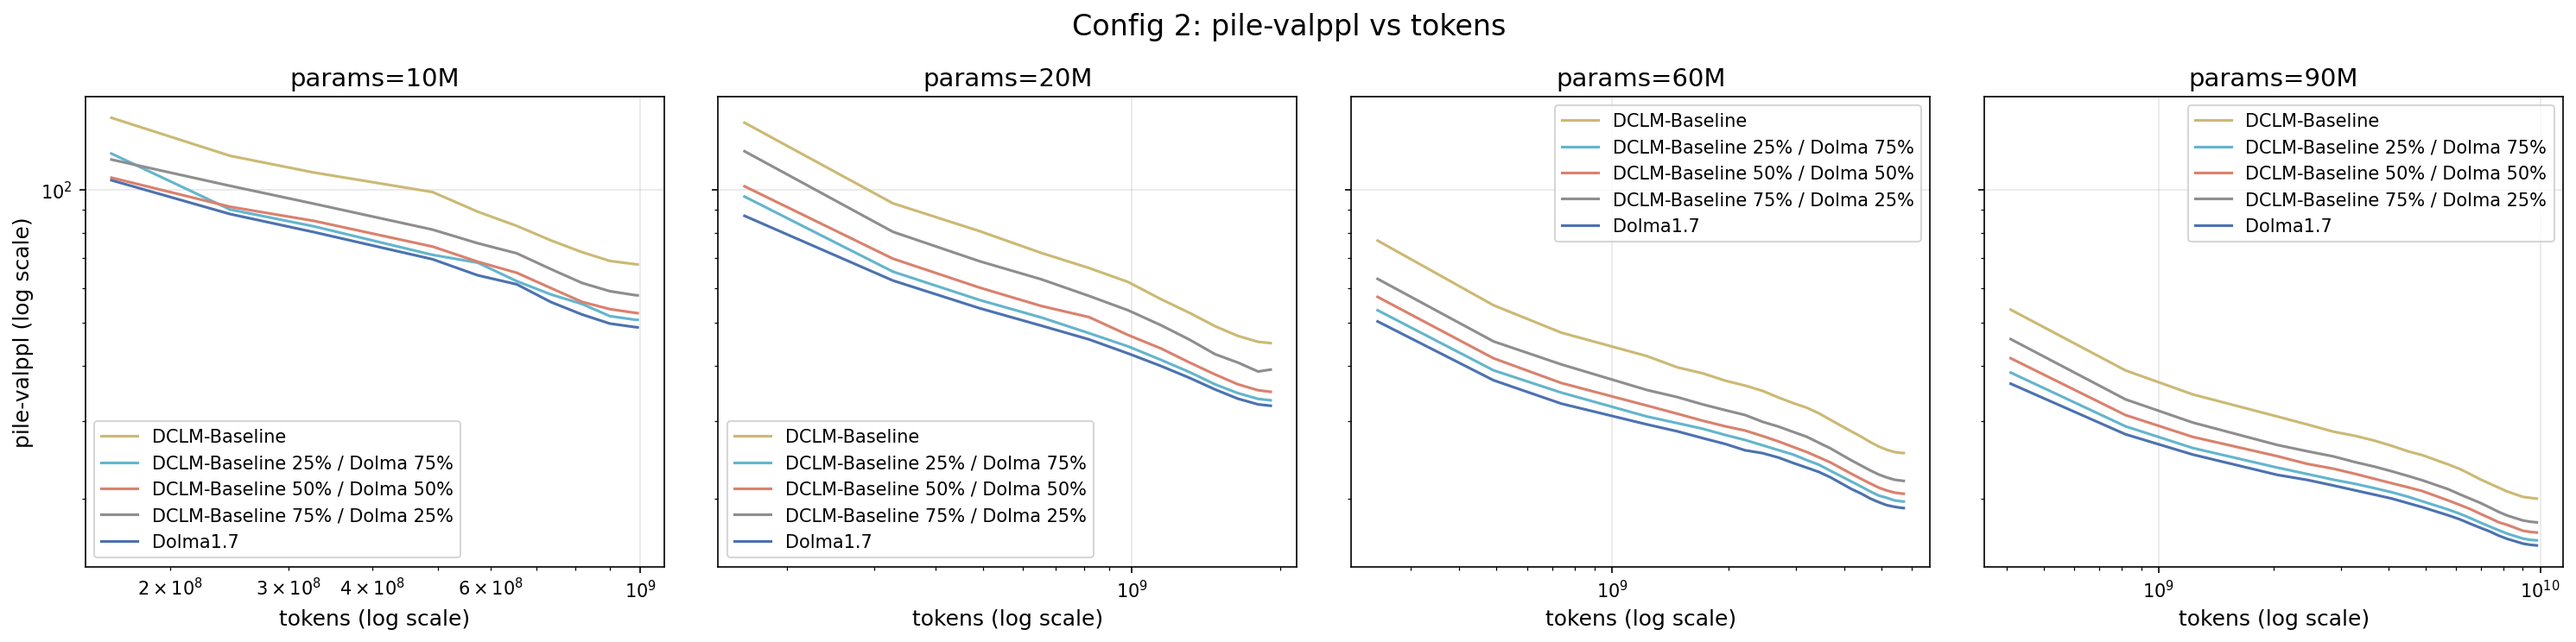
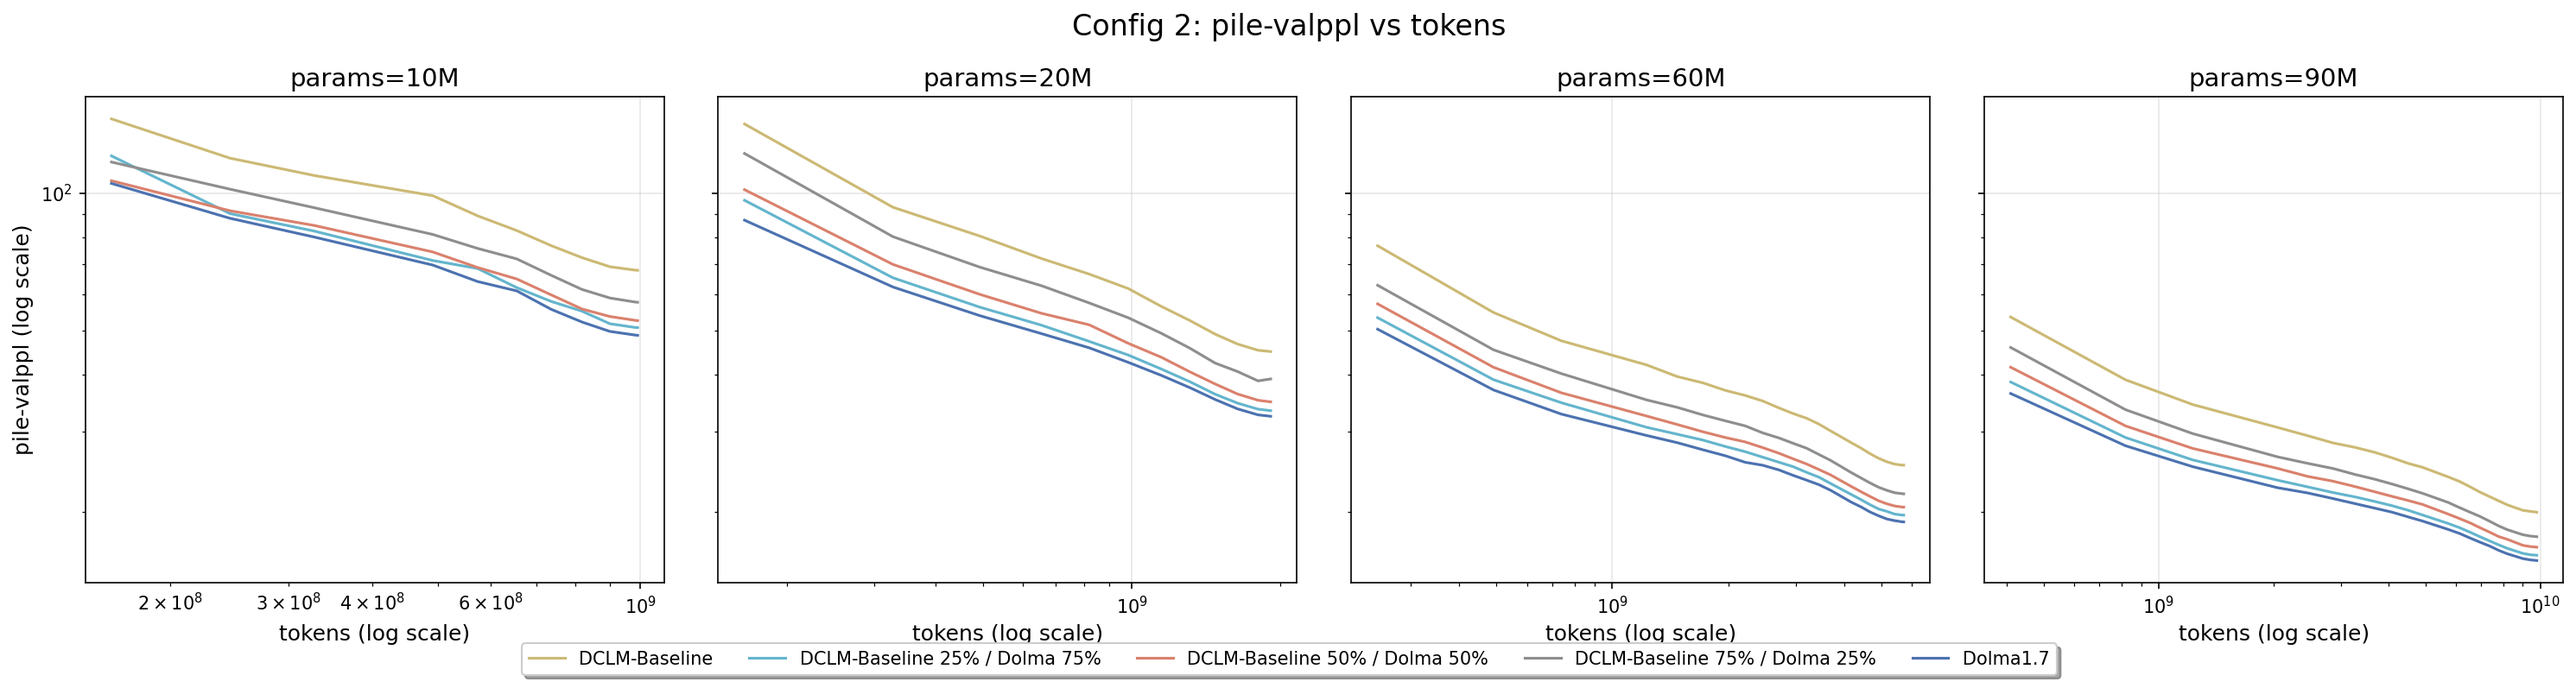
add the ability to select num cols in legend

diff --git a/scripts/test_plotting.py b/scripts/test_plotting.py
@@ -5,7 +5,6 @@ Creates various configurations of scaling curve plots to validate the implementa
 """
 
 import sys
-import os
 from pathlib import Path
 import matplotlib.pyplot as plt
 
@@ -15,21 +14,20 @@ sys.path.insert(0, str(repo_root / "src"))
 
 from datadec import DataDecide
 from datadec.plotting import ScalingPlotBuilder, ModelComparisonBuilder
-import datadec.constants as consts
 
 
 def fix_sharey_labels(builder, fm):
     """
     Fix y-axis labels for shared y-axis plots by removing redundant labels.
-    
+
     Args:
         builder: The plot builder instance (to access config)
         fm: The FigureManager instance (to access axes)
     """
-    if builder.config.get('sharey'):
-        ncols = builder.config['ncols']
+    if builder.config.get("sharey"):
+        ncols = builder.config["ncols"]
         nrows = 1  # Assuming single row layouts for now
-        
+
         for row in range(nrows):
             for col in range(1, ncols):  # Skip leftmost (col=0)
                 ax = fm.get_axes(row=row, col=col)
@@ -37,108 +35,135 @@ def fix_sharey_labels(builder, fm):
                     ax.set_ylabel("")
 
 
-def add_unified_legend_below(builder, fm, adjust_layout=True):
+def add_unified_legend_below(builder, fm, adjust_layout=True, legend_ncol=None):
     """
     Create a unified legend below all subplots, removing individual subplot legends.
-    
+
     Args:
         builder: The plot builder instance (to access config)
         fm: The FigureManager instance (to access figure and axes)
         adjust_layout: Whether to adjust subplot layout to make room for legend
+        legend_ncol: Number of columns in legend. If None, uses len(all_labels) for single row
     """
-    ncols = builder.config.get('ncols', 1)
+    ncols = builder.config.get("ncols", 1)
     nrows = 1  # Assuming single row layouts for now
-    
+
     # Collect all unique legend handles and labels from subplots
     all_handles = []
     all_labels = []
     seen_labels = set()  # Track unique labels to avoid duplicates
-    
+
     for row in range(nrows):
         for col in range(ncols):
             ax = fm.get_axes(row=row, col=col)
             if ax and ax.get_visible():
                 # Get legend handles and labels from this subplot
                 handles, labels = ax.get_legend_handles_labels()
-                
+
                 # Add unique labels only (avoid duplicates across subplots)
                 for handle, label in zip(handles, labels):
                     if label not in seen_labels:
                         all_handles.append(handle)
                         all_labels.append(label)
                         seen_labels.add(label)
-                
+
                 # Remove individual subplot legend
                 legend = ax.get_legend()
                 if legend:
                     legend.remove()
-    
+
     # Create unified legend below subplots if we have any labels
     if all_handles and all_labels:
-        # Optionally adjust layout to make room for legend
+        # Determine number of columns for legend
+        if legend_ncol is None:
+            # Default: single row (all labels in one row)
+            legend_cols = len(all_labels)
+        else:
+            # Use specified number of columns
+            legend_cols = min(legend_ncol, len(all_labels))
+
+        # Adjust bottom margin based on number of legend rows needed
         if adjust_layout:
-            # Shrink subplots slightly to make room for legend below
-            plt.subplots_adjust(bottom=0.15)
-        
+            legend_rows = (
+                len(all_labels) + legend_cols - 1
+            ) // legend_cols  # Ceiling division
+            bottom_margin = (
+                0.1 + (legend_rows - 1) * 0.05
+            )  # More space for multi-row legends
+            plt.subplots_adjust(bottom=bottom_margin)
+
         # Create figure-level legend below all subplots
         fm.fig.legend(
-            all_handles, 
+            all_handles,
             all_labels,
-            loc='upper center',           # Legend anchor point
+            loc="upper center",  # Legend anchor point
             bbox_to_anchor=(0.5, 0.02),  # Position below subplots
-            ncol=len(all_labels),         # Horizontal layout
-            frameon=True,                 # Show legend frame
-            fancybox=True,               # Rounded corners
-            shadow=True                  # Drop shadow
+            ncol=legend_cols,  # Configurable columns
+            frameon=True,  # Show legend frame
+            fancybox=True,  # Rounded corners
+            shadow=True,  # Drop shadow
         )
+
 
 def main():
     # Load data
     print("Loading DataDecide data...")
     data_dir = repo_root / "outputs" / "example_data"
-    
+
     if not data_dir.exists():
-        print(f"Data directory {data_dir} does not exist. Please run data pipeline first.")
+        print(
+            f"Data directory {data_dir} does not exist. Please run data pipeline first."
+        )
         return
-        
+
     dd = DataDecide(data_dir=str(data_dir), verbose=True)
-    
+
     # Use mean_eval for averaged data across seeds
     df = dd.load_dataframe("mean_eval")
     print(f"Loaded mean_eval dataframe with shape: {df.shape}")
     print(f"Available columns: {list(df.columns)[:20]}...")  # Truncate long list
     print(f"Unique params: {sorted(df['params'].unique())}")
     print(f"Unique data: {sorted(df['data'].unique())[:10]}...")  # Truncate long list
-    
+
     # Drop rows with NaN values in key plotting columns
-    key_columns = ['tokens', 'pile-valppl', 'mmlu_average_correct_prob', 'params', 'data']
+    key_columns = [
+        "tokens",
+        "pile-valppl",
+        "mmlu_average_correct_prob",
+        "params",
+        "data",
+    ]
     available_key_columns = [col for col in key_columns if col in df.columns]
     print(f"Filtering NaN values in columns: {available_key_columns}")
     initial_shape = df.shape
     df = df.dropna(subset=available_key_columns)
-    print(f"After NaN filtering: {df.shape} (removed {initial_shape[0] - df.shape[0]} rows)")
-    
+    print(
+        f"After NaN filtering: {df.shape} (removed {initial_shape[0] - df.shape[0]} rows)"
+    )
+
     # Create output directory for plots
     plots_dir = repo_root / "plots" / "test_plotting"
     plots_dir.mkdir(parents=True, exist_ok=True)
     print(f"Saving plots to: {plots_dir}")
-    
+
     # Use the requested params and data values
     test_params = ["10M", "20M", "60M", "90M"]
     test_data = [
         "Dolma1.7",
         "DCLM-Baseline 25% / Dolma 75%",
         "DCLM-Baseline 50% / Dolma 50%",
-        "DCLM-Baseline 75% / Dolma 25%", 
-        "DCLM-Baseline"
+        "DCLM-Baseline 75% / Dolma 25%",
+        "DCLM-Baseline",
     ]
-    
+
     # Configuration 1: params as lines, data as subplots (your main use case)
     print("\n=== Configuration 1: params as lines, data as subplots ===")
     try:
         # Using the new builder pattern
         builder1 = ScalingPlotBuilder(df)
-        builder1.clean_data(key_columns=available_key_columns)  # Data already cleaned above, but showing pattern
+        builder1.clean_data(
+            key_columns=available_key_columns
+        )  # Data already cleaned above, but showing pattern
         builder1.with_params(test_params)
         builder1.with_data(test_data)
         builder1.configure(
@@ -149,22 +174,27 @@ def main():
             title_prefix="Config 1",
             ncols=5,  # Single row with 5 columns
             figsize=(25, 5),  # Wider figure for single row
-            sharey=True  # Share y-axis across subplots
+            sharey=True,  # Share y-axis across subplots
         )
         fig1, fm1 = builder1.build()
         fix_sharey_labels(builder1, fm1)
         add_unified_legend_below(builder1, fm1)
-        
-        fig1.savefig(plots_dir / "config1_params_lines_data_subplots.png", dpi=150, bbox_inches="tight")
+
+        fig1.savefig(
+            plots_dir / "config1_params_lines_data_subplots.png",
+            dpi=150,
+            bbox_inches="tight",
+        )
         print("✓ Saved config1_params_lines_data_subplots.png")
     except Exception as e:
         print(f"✗ Error in config 1: {e}")
-    
+
     # Configuration 2: data as lines, params as subplots (swapped)
     print("\n=== Configuration 2: data as lines, params as subplots ===")
     try:
         # More concise builder usage
-        builder2 = (ScalingPlotBuilder(df)
+        builder2 = (
+            ScalingPlotBuilder(df)
             .with_params(test_params)
             .with_data(test_data)
             .configure(
@@ -175,39 +205,48 @@ def main():
                 title_prefix="Config 2",
                 ncols=4,  # Single row with 4 columns (for 4 params)
                 figsize=(20, 5),  # Wider figure for single row
-                sharey=True  # Share y-axis across subplots
-            ))
+                sharey=True,  # Share y-axis across subplots
+            )
+        )
         fig2, fm2 = builder2.build()
         fix_sharey_labels(builder2, fm2)
         add_unified_legend_below(builder2, fm2)
-        
-        fig2.savefig(plots_dir / "config2_data_lines_params_subplots.png", dpi=150, bbox_inches="tight")
+
+        fig2.savefig(
+            plots_dir / "config2_data_lines_params_subplots.png",
+            dpi=150,
+            bbox_inches="tight",
+        )
         print("✓ Saved config2_data_lines_params_subplots.png")
     except Exception as e:
         print(f"✗ Error in config 2: {e}")
-    
+
     # Configuration 3: Different metric (MMLU instead of perplexity)
     print("\n=== Configuration 3: MMLU metric ===")
     try:
         # Another concise example showing different metric
-        builder3 = (ScalingPlotBuilder(df)
+        builder3 = (
+            ScalingPlotBuilder(df)
             .with_params(test_params)
             .with_data(test_data)
             .configure(
                 y_col="mmlu_average_correct_prob",
                 title_prefix="Config 3",
                 ncols=5,  # Single row with 5 columns
-                sharey=True  # Share y-axis for this metric comparison
-            ))
+                sharey=True,  # Share y-axis for this metric comparison
+            )
+        )
         fig3, fm3 = builder3.build()
         fix_sharey_labels(builder3, fm3)
         add_unified_legend_below(builder3, fm3)
-        
-        fig3.savefig(plots_dir / "config3_mmlu_metric.png", dpi=150, bbox_inches="tight")
+
+        fig3.savefig(
+            plots_dir / "config3_mmlu_metric.png", dpi=150, bbox_inches="tight"
+        )
         print("✓ Saved config3_mmlu_metric.png")
     except Exception as e:
         print(f"✗ Error in config 3: {e}")
-    
+
     # Configuration 4: Multi-metric comparison
     print("\n=== Configuration 4: Multi-metric comparison ===")
     try:
@@ -215,57 +254,69 @@ def main():
         # Check which metrics actually exist in the data
         available_metrics = [m for m in test_metrics if m in df.columns]
         print(f"Available metrics: {available_metrics}")
-        
+
         if available_metrics:
             # Using ModelComparisonBuilder
-            builder4 = (ModelComparisonBuilder(df, available_metrics)
+            builder4 = (
+                ModelComparisonBuilder(df, available_metrics)
                 .with_params(test_params)
                 .with_data(test_data)
                 .configure(
                     x_col="tokens",
-                    line_col="data",      # Data recipes as different colors (hue)
-                    style_col="params",    # Model sizes as different line styles
+                    line_col="data",  # Data recipes as different colors (hue)
+                    style_col="params",  # Model sizes as different line styles
                     ncols=2,  # Single row with 2 columns (for 2 metrics)
                     figsize=(10, 5),  # Wider figure for single row
-                    sharey=False  # Don't share y-axis (different metrics have different scales)
-                ))
+                    sharey=False,  # Don't share y-axis (different metrics have different scales)
+                )
+            )
             fig4, fm4 = builder4.build()
-            
+
             # Note: No sharey fix needed since sharey=False
-            add_unified_legend_below(builder4, fm4)
-            
-            fig4.savefig(plots_dir / "config4_multi_metric.png", dpi=150, bbox_inches="tight")
+            # Use 4 columns for legend to prevent it from being too wide
+            add_unified_legend_below(builder4, fm4, legend_ncol=5)
+
+            fig4.savefig(
+                plots_dir / "config4_multi_metric.png", dpi=150, bbox_inches="tight"
+            )
             print("✓ Saved config4_multi_metric.png")
         else:
             print("✗ No valid metrics found for multi-metric plot")
     except Exception as e:
         print(f"✗ Error in config 4: {e}")
-    
+
     # Configuration 5: Single data recipe, more params
     print("\n=== Configuration 5: Single data recipe, more params ===")
     try:
-        all_params = sorted(df['params'].unique())[:5]  # Take first 5 params
-        single_data = [test_data[0]] if test_data else [sorted(df['data'].unique())[0]]
-        
+        all_params = sorted(df["params"].unique())[:5]  # Take first 5 params
+        single_data = [test_data[0]] if test_data else [sorted(df["data"].unique())[0]]
+
         # Example using from_datadecide constructor if we had a DataDecide instance
         # builder5 = ScalingPlotBuilder.from_datadecide(dd, 'mean_eval', verbose=True)
-        
-        fig5, fm5 = (ScalingPlotBuilder(df)
+
+        fig5, fm5 = (
+            ScalingPlotBuilder(df)
             .with_params(all_params)
             .with_data(single_data)
             .configure(
                 title_prefix="Config 5",
-                ncols=1  # Single column (1 data recipe = 1 subplot)
+                ncols=1,  # Single column (1 data recipe = 1 subplot)
             )
-            .build())
-        
-        fig5.savefig(plots_dir / "config5_single_data_more_params.png", dpi=150, bbox_inches="tight")
+            .build()
+        )
+
+        fig5.savefig(
+            plots_dir / "config5_single_data_more_params.png",
+            dpi=150,
+            bbox_inches="tight",
+        )
         print("✓ Saved config5_single_data_more_params.png")
     except Exception as e:
         print(f"✗ Error in config 5: {e}")
-    
+
     print(f"\nPlotting test complete! Check plots in: {plots_dir}")
     print("Use your image viewer to inspect the generated plots.")
+
 
 if __name__ == "__main__":
     main()
